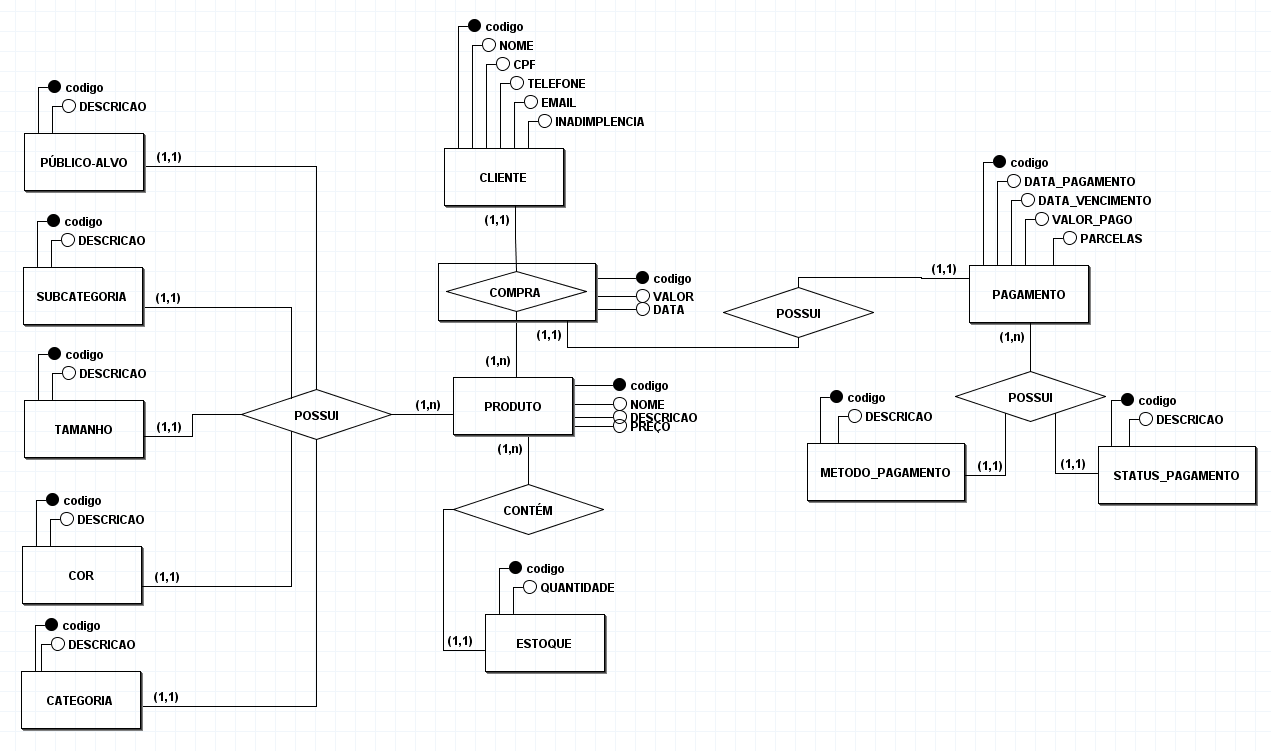
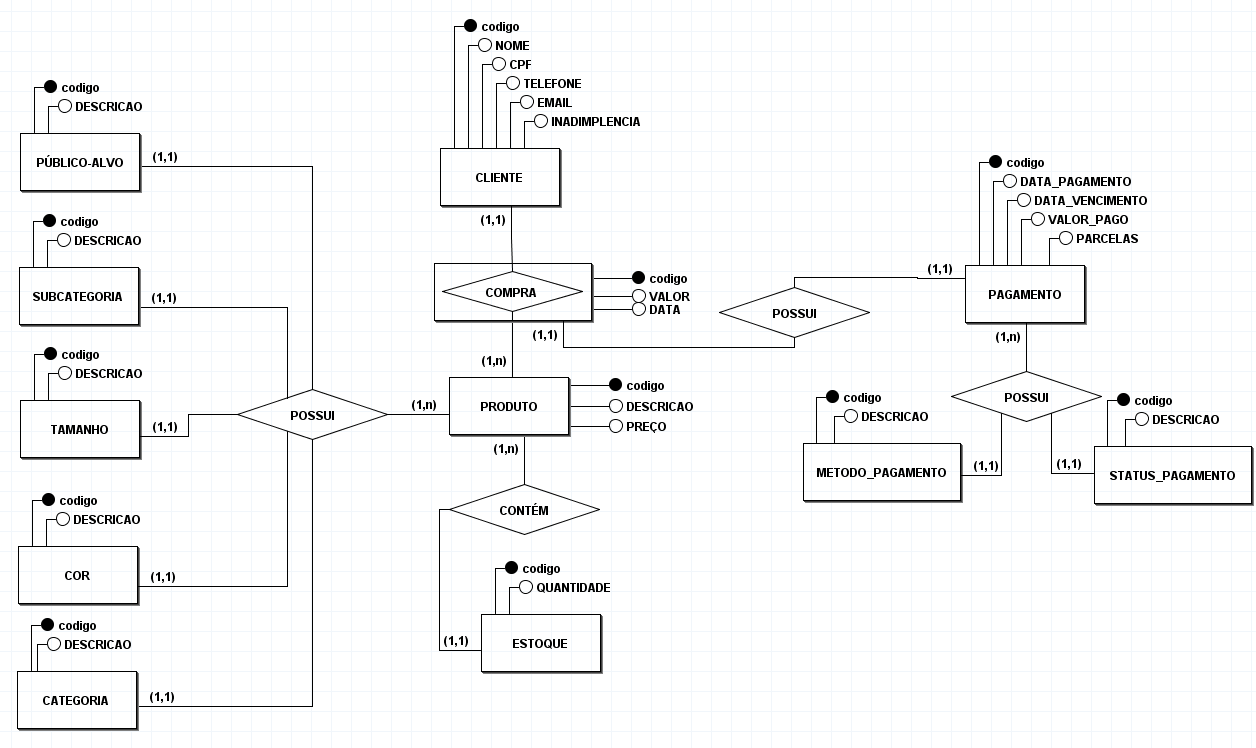
sprint 2 incompleta

diff --git a/readme.md b/readme.md
@@ -9,7 +9,7 @@
 - Wal Candeia - [@OnllyWal](https://github.com/OnllyWal/)
 
 # 2. MINI-MUNDO
-O sistema proposto para a loja de roupas e calçados ModaMania conterá as informações aqui detalhadas. Dos produtos serão armazenados o código, nome, descrição, tamanho (PP, P, M, G, GG, etc), cor, categoria (roupa ou calçado) e subcategoria (blusa e camiseta, calça, moletom, bota, chinelo, etc), público-alvo (adulto ou infantil) e gênero (feminino ou masculino), quantidade em estoque e preço. Cada categoria pode ter várias subcategorias e produtos a ela associados.
+O sistema proposto para a loja de roupas e calçados ModaMania conterá as informações aqui detalhadas. Dos produtos serão armazenados o código, nome, descrição, tamanho (PP, P, M, G, GG, etc), cor, categoria (roupa ou calçado) e subcategoria (feminino ou masculino), público-alvo (adulto ou infantil), quantidade em estoque e preço. Cada categoria pode ter várias subcategorias e produtos a ela associados.
 
 Os dados relativos aos clientes que serão armazenados incluem o código do cliente, nome, data de nascimento, CPF, telefone e e-mail. Cada cliente pode realizar várias compras. As compras armazenarão o código da compra, data, valor total e os produtos comprados, com suas respectivas quantidades. Cada compra está associada a um único cliente, mas um cliente pode realizar múltiplas compras.
 
@@ -37,7 +37,7 @@ Este relatório fornecerá uma análise das vendas em diferentes períodos, como
 ## 4.1 Modelo Conceitual
 ![alt text](PRINT_Conceitual.png)
 
-### 4.1.1 Descrição dos dados 
+### 4.1.1 Dicionário de dados 
 - **PÚBLICO-ALVO:** Tabela que armazena as informações sobre o público-alvo dos produtos.
     - **DESCRICAO:** Campo que armazena a descrição do público-alvo (adulto ou infantil).
 
@@ -89,29 +89,12 @@ Este relatório fornecerá uma análise das vendas em diferentes períodos, como
 
 ## 4.3 Modelo Físico
 
-
-
 # 5. MANIPULANDO O BANCO DE DADOS
 ## 5.1 INSERT
 **a) Script das instruções relativas a inclusão de dados** 
-
-Requisito mínimo: (Script dev conter: Drop para exclusão de tabelas + create definição de para tabelas e estruturas de dados + insert para dados a serem inseridos)
-
-```
-Observação
-
-1) Criar um novo banco de dados para testar a restauracao (em caso de falha na restauração o grupo não pontuará neste quesito)
-
-2) script deve ser incluso no template em um arquivo no formato .SQL
-
-```
+> 📂 [INSERTS.sql](/modaMania_Fisico/INSERTS.sql)
 
 # 6	TABELAS E PRINCIPAIS CONSULTAS
-```
-Observação
-
-Usa template da disciplina disponibilizado no Colab.
-```
 
 ## 6.1	CONSULTAS DAS TABELAS COM TODOS OS DADOS INSERIDOS (Todas)
 
